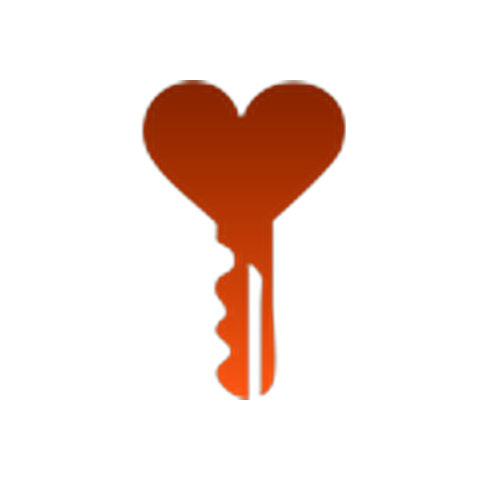
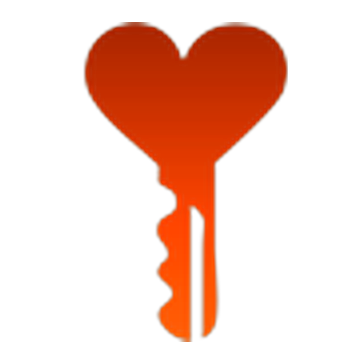
Brighten admin chat key and cut extra padding on the disc.

Changed region(s): [[0.2115, 0.0604, 0.8159, 0.9368]]

diff --git a/resources/js/components/admin/AdminChatWidget.jsx b/resources/js/components/admin/AdminChatWidget.jsx
@@ -10,8 +10,8 @@ const KEY_MARK = '/images/serraller_solidaria_chat_key.png';
 
 function BrandKey({ className = 'h-8 w-8' }) {
   return (
-    <span className={`inline-flex items-center justify-center overflow-hidden rounded-full bg-base-100 ${className}`}>
-      <img src={KEY_MARK} alt="" className="h-[58%] w-[58%] object-contain" />
+    <span className={`inline-flex items-center justify-center overflow-hidden rounded-full bg-white ${className}`}>
+      <img src={KEY_MARK} alt="" className="h-[86%] w-[86%] object-contain" />
     </span>
   );
 }

diff --git a/CHANGELOG.md b/CHANGELOG.md
@@ -1,5 +1,10 @@
 # Changelog
 
+## [0.2.6] - 2026-10-06
+
+### Changed
+- **Admin chat key:** white disc (not theme base), tighter crop, slightly brighter mark.
+
 ## [0.2.5] - 2026-10-06
 
 ### Changed
